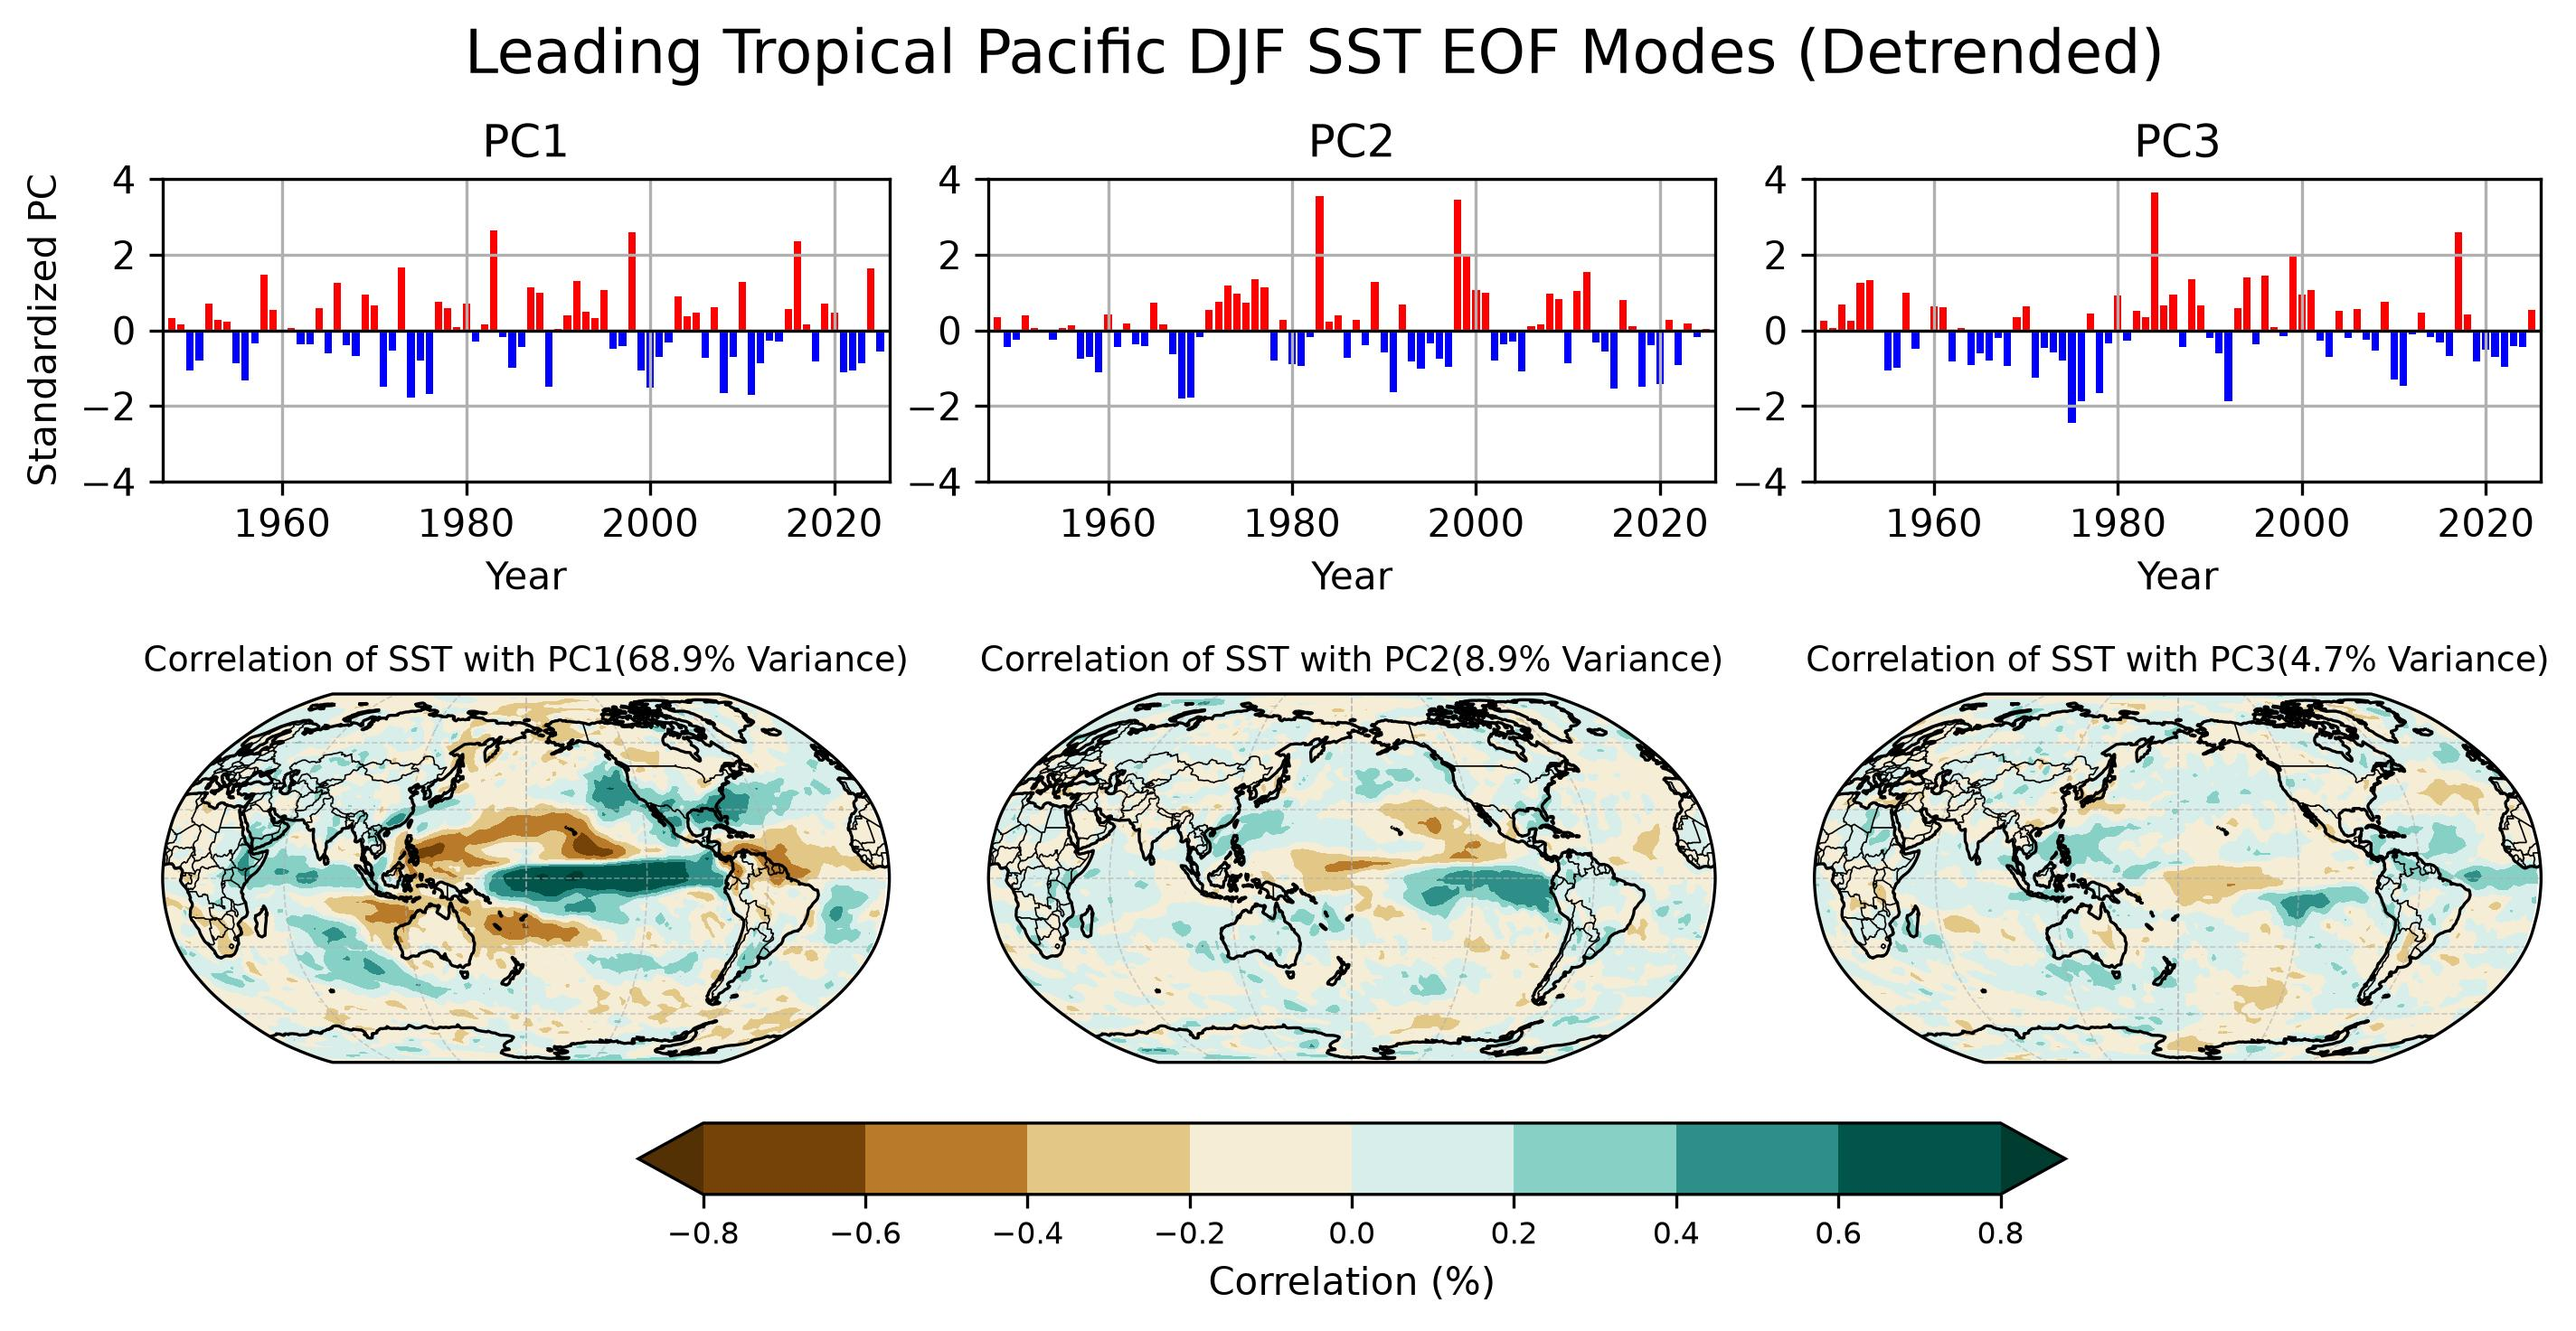
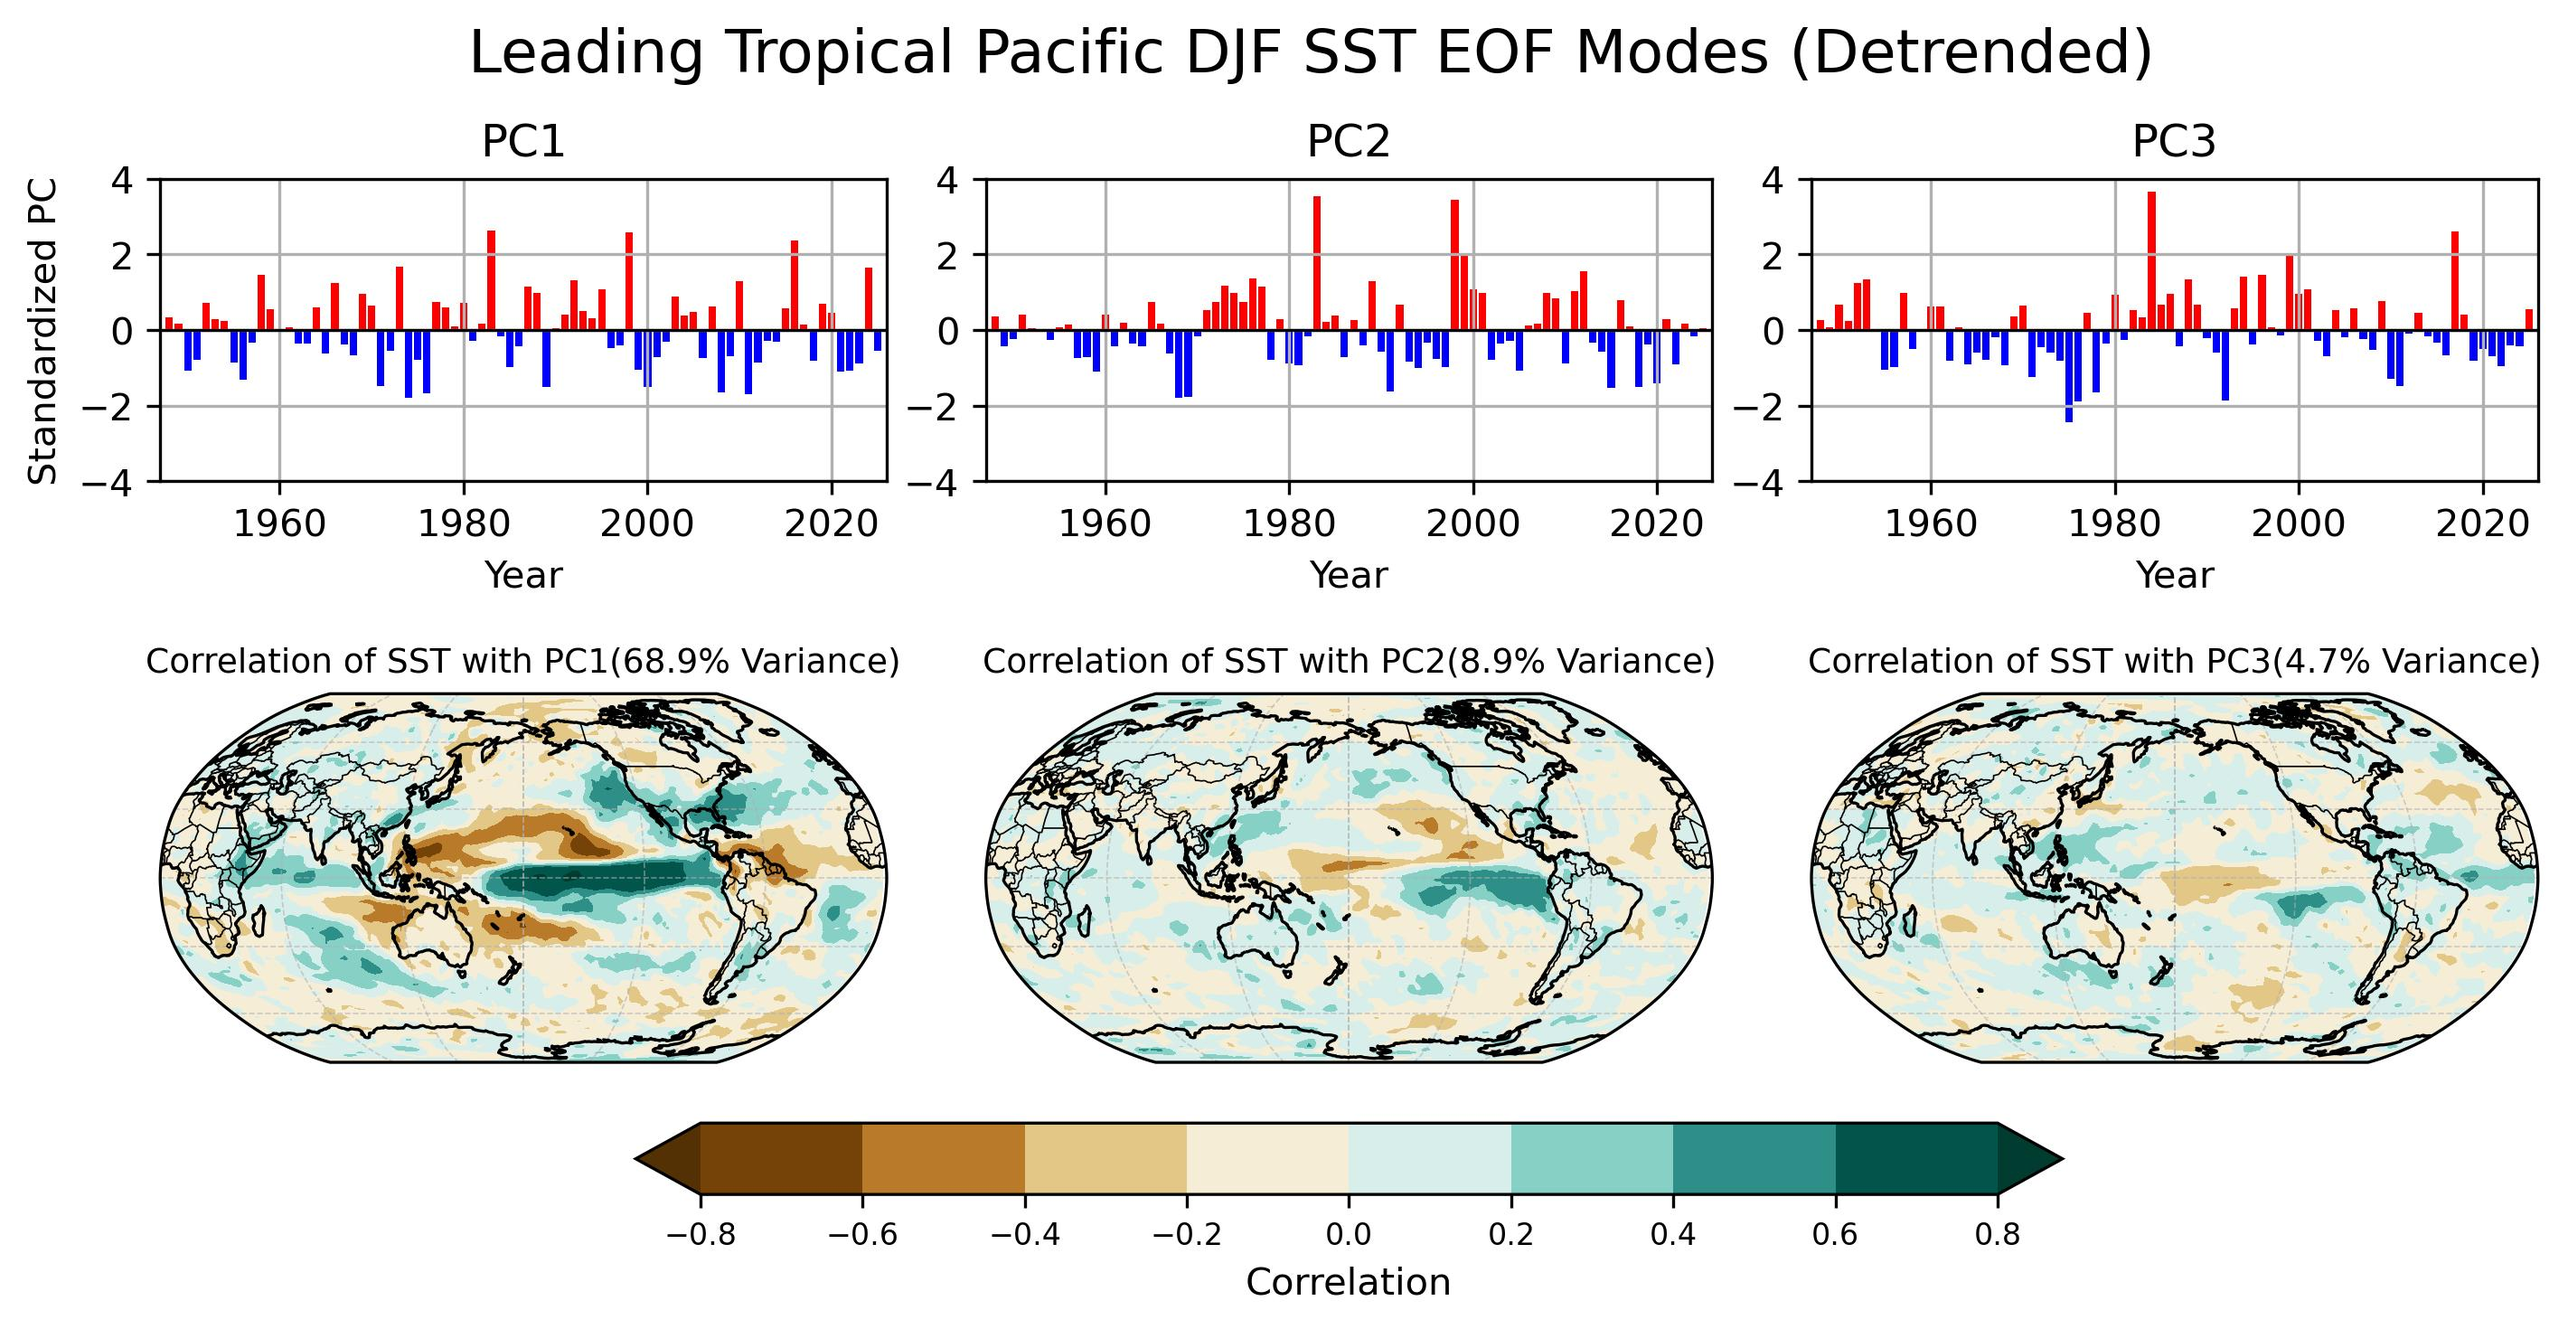
Removed correlation unit

diff --git a/python/week11_correlation_EOF/solution/w11_11_SST_EOF_precip.HW.example.py b/python/week11_correlation_EOF/solution/w11_11_SST_EOF_precip.HW.example.py
@@ -698,7 +698,7 @@ cbar = fig.colorbar(
 )
 
 cbar.ax.tick_params(labelsize=8)
-cbar.set_label("Correlation (%)")
+cbar.set_label("Correlation")
 
 fig.suptitle(
     f"Leading Tropical Pacific DJF SST EOF Modes "

diff --git a/python/week11_correlation_EOF/w11_09_eof_multiple_modes.py b/python/week11_correlation_EOF/w11_09_eof_multiple_modes.py
@@ -685,7 +685,7 @@ cbar = fig.colorbar(
 )
 
 cbar.ax.tick_params(labelsize=8)
-cbar.set_label("Correlation (%)")
+cbar.set_label("Correlation")
 
 fig.suptitle(
     f"Leading Tropical Pacific DJF SST EOF Modes "

diff --git a/python/week11_correlation_EOF/solution/w11_10_eof_multiple_modes_NAO.solution.py b/python/week11_correlation_EOF/solution/w11_10_eof_multiple_modes_NAO.solution.py
@@ -699,7 +699,7 @@ cbar = fig.colorbar(
 )
 
 cbar.ax.tick_params(labelsize=8)
-cbar.set_label("Correlation (%)")
+cbar.set_label("Correlation")
 
 fig.suptitle(
     f"Leading North Atlantic DJF SLP EOF Modes "

diff --git a/python/week11_correlation_EOF/w11_10_eof_multiple_modes_NAO.sample.py b/python/week11_correlation_EOF/w11_10_eof_multiple_modes_NAO.sample.py
@@ -693,7 +693,7 @@ cbar = fig.colorbar(
 )
 
 cbar.ax.tick_params(labelsize=8)
-cbar.set_label("Correlation (%)")
+cbar.set_label("Correlation")
 
 fig.suptitle(
     f"Leading North Atlantic DJF SLP EOF Modes "
